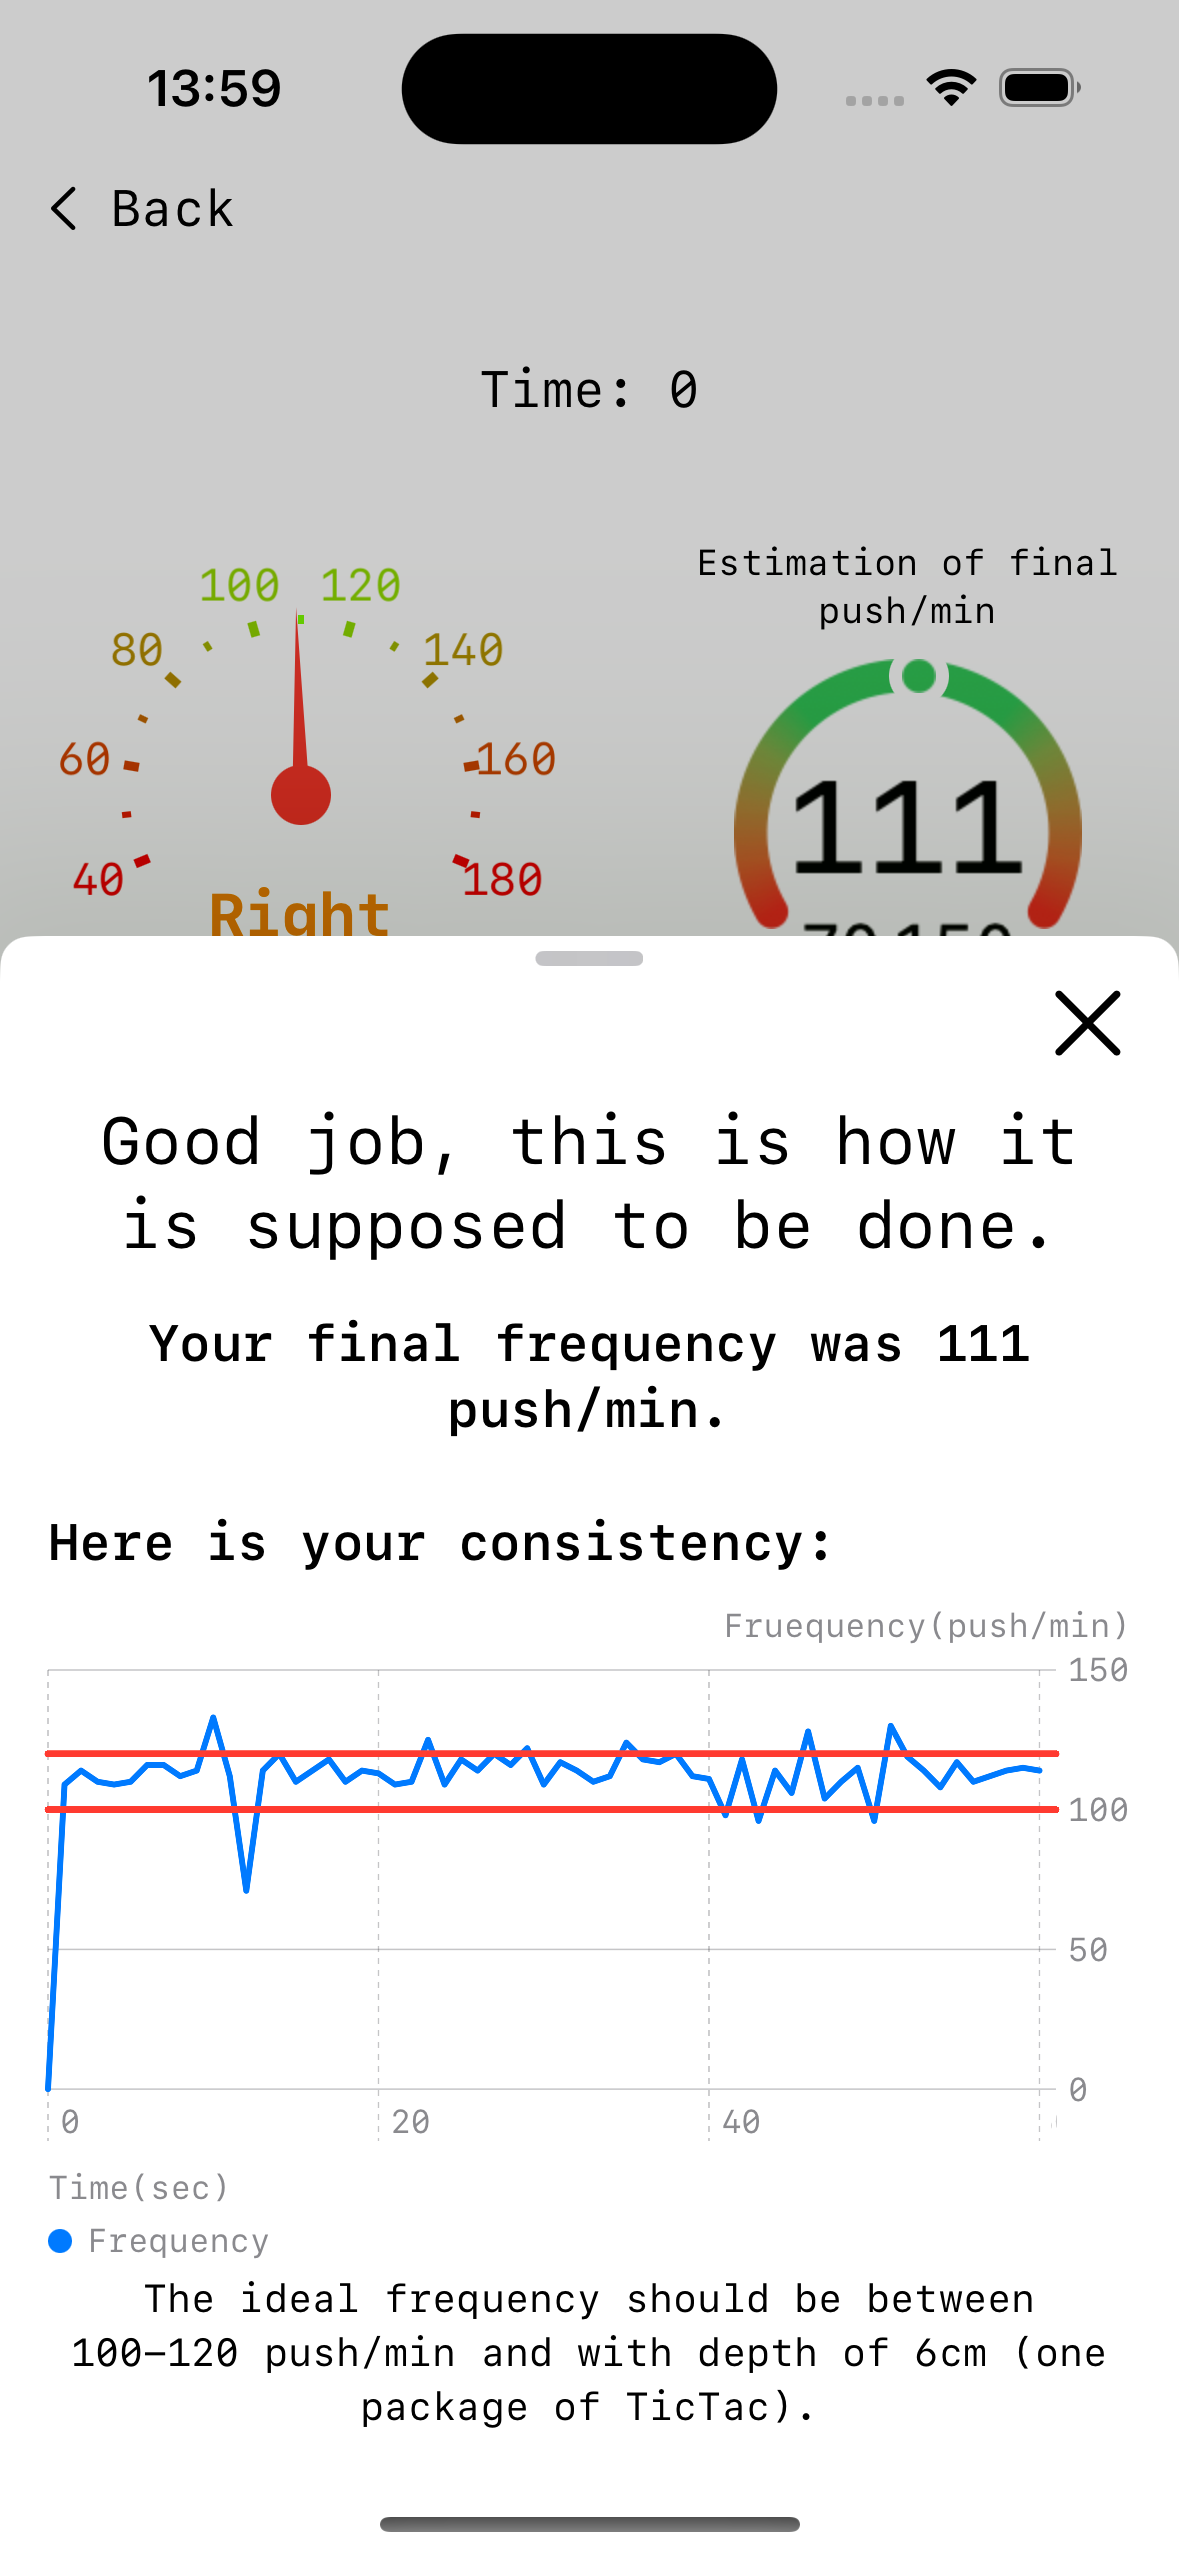
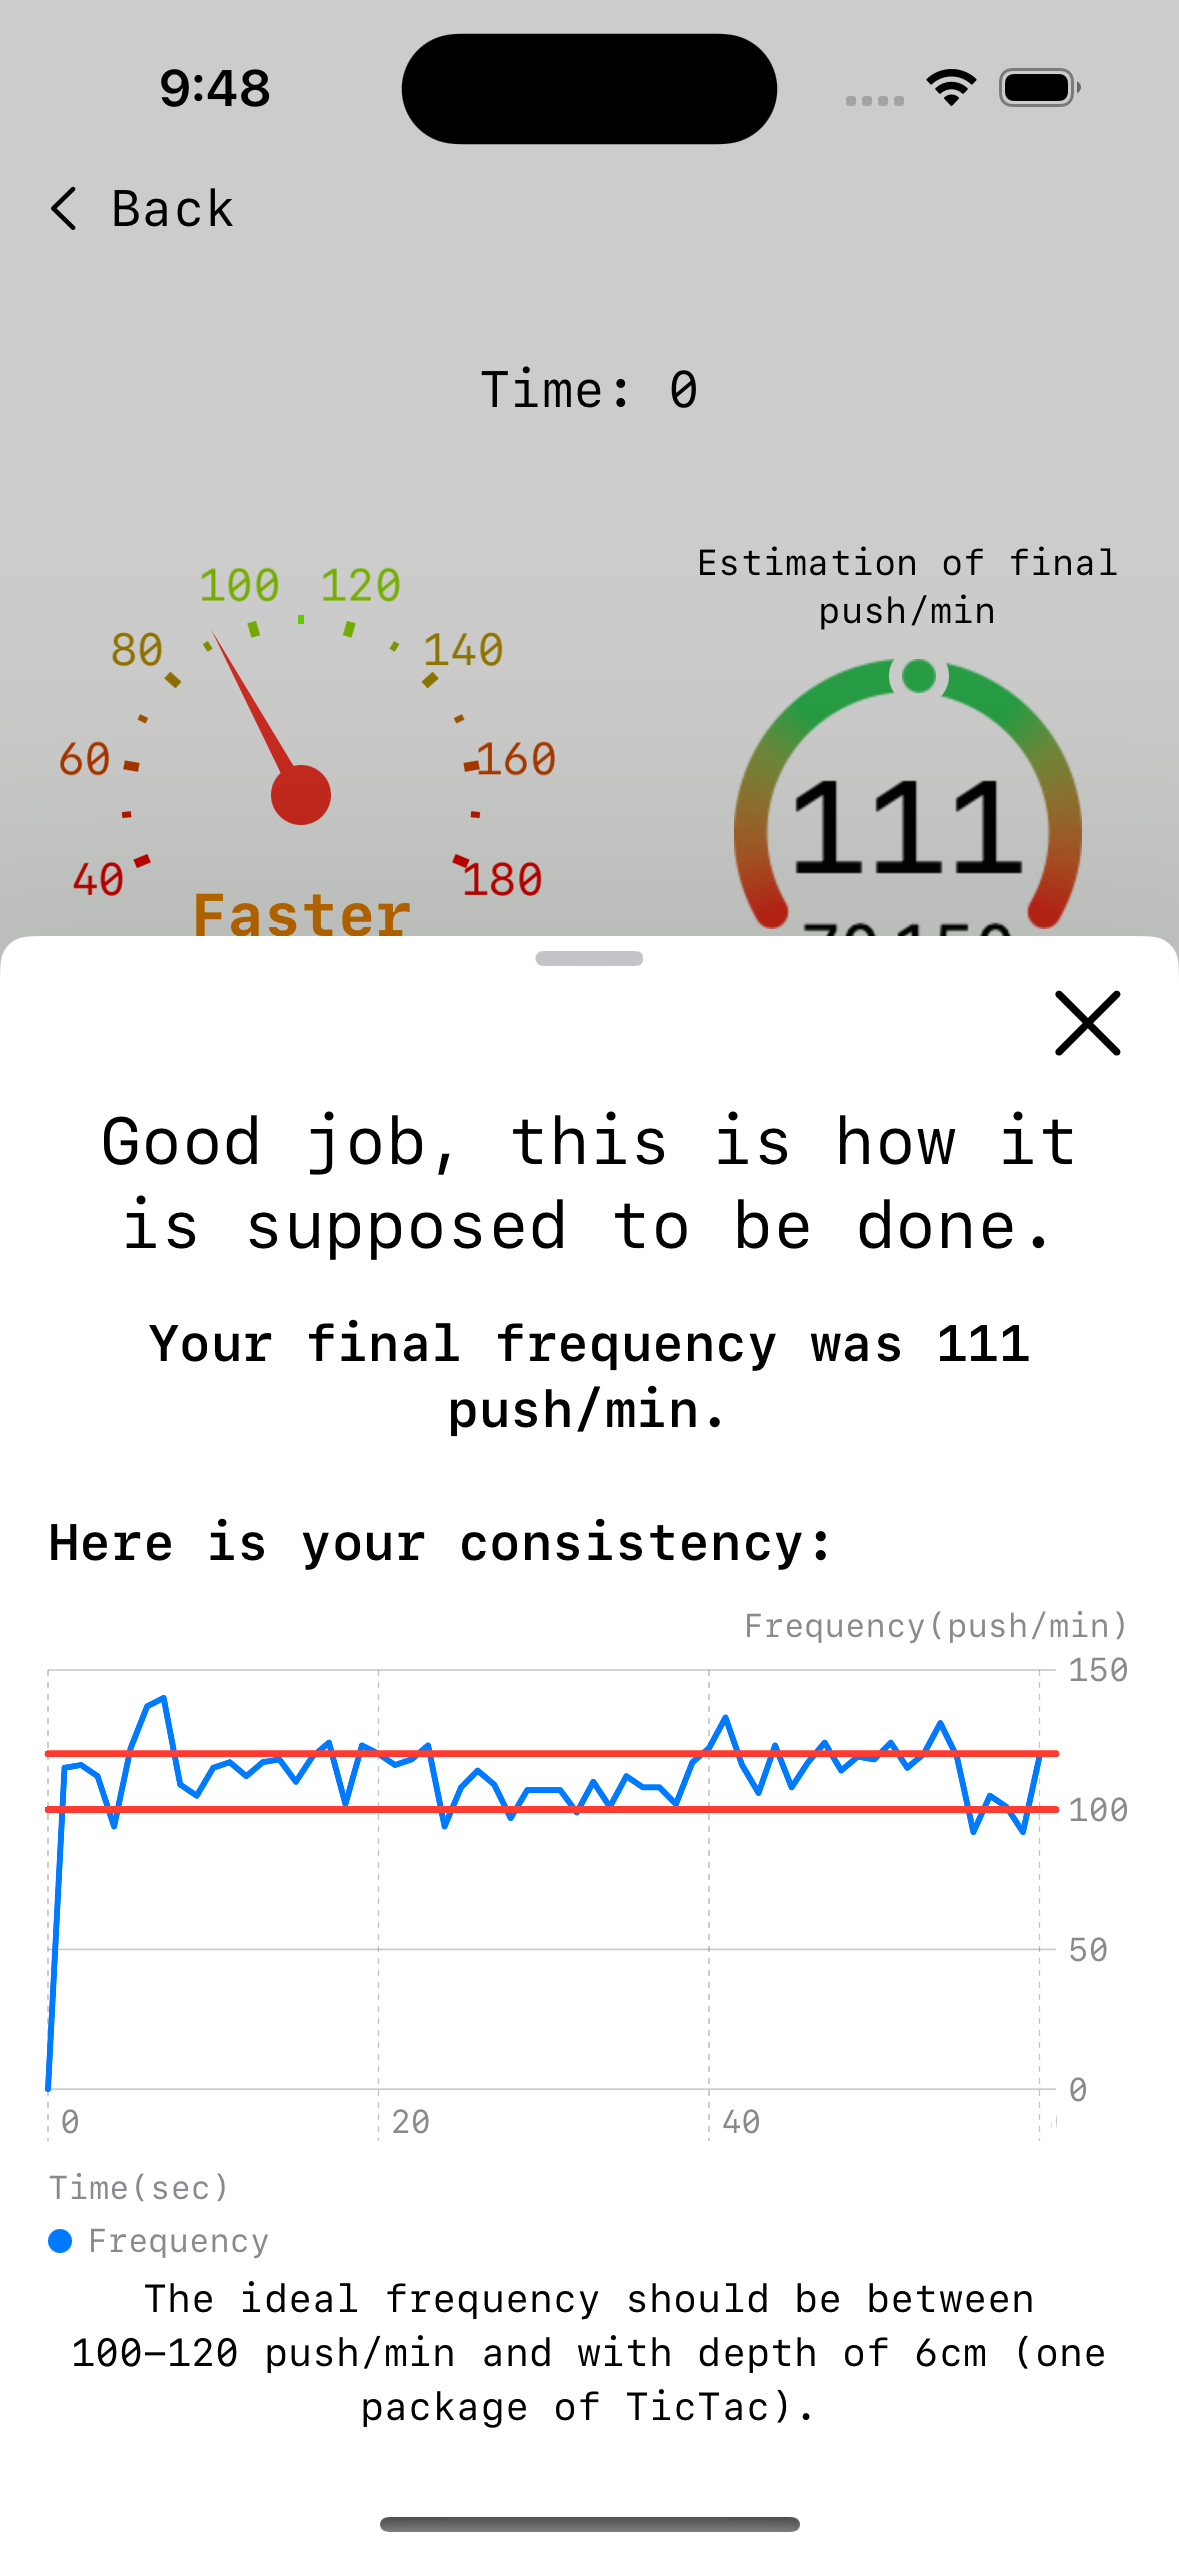
corrected typo in the graph view and updated photo in readme

diff --git a/CPRHelperv2/Views/Practice/Frequency/GraphView.swift b/CPRHelperv2/Views/Practice/Frequency/GraphView.swift
@@ -30,7 +30,7 @@ struct GraphView:View{
             .chartXScale(domain: 0...data.count)
             .chartForegroundStyleScale(["Frequency": Color.blue])
             .chartXAxisLabel("Time(sec)")
-            .chartYAxisLabel("Fruequency(push/min)")
+            .chartYAxisLabel("Frequency(push/min)")
         }
     }
 }
